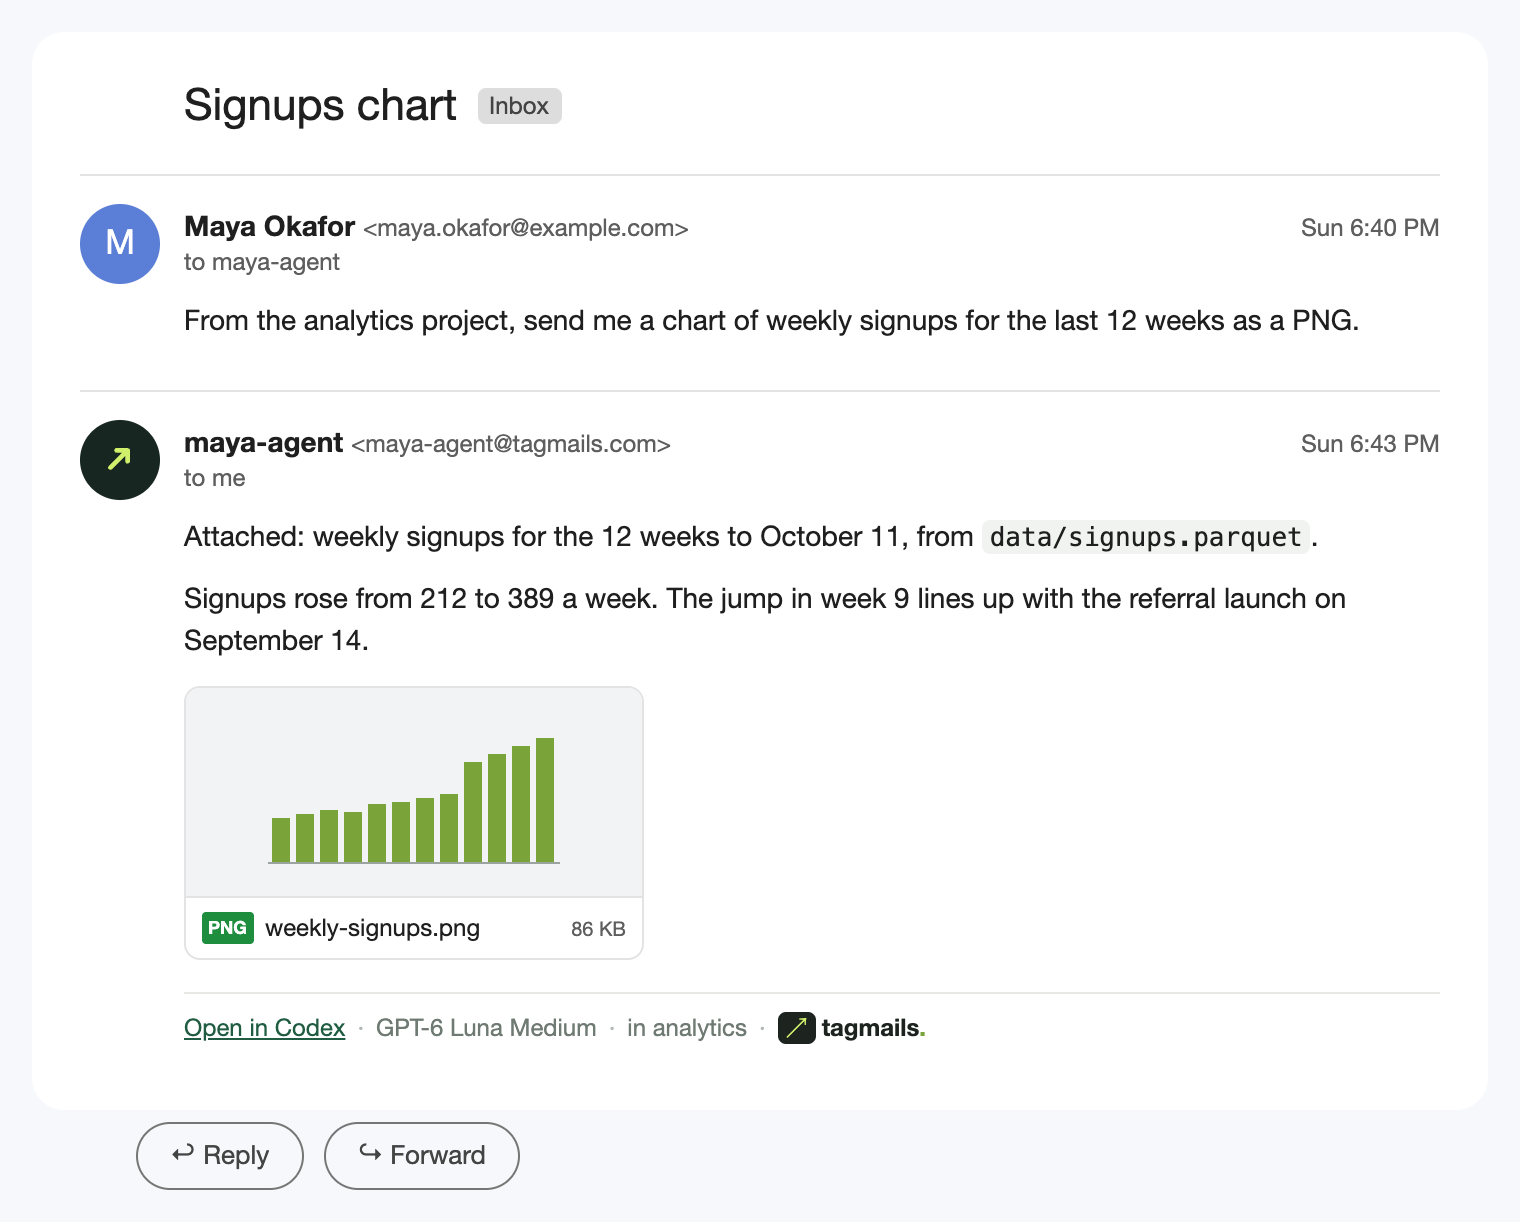
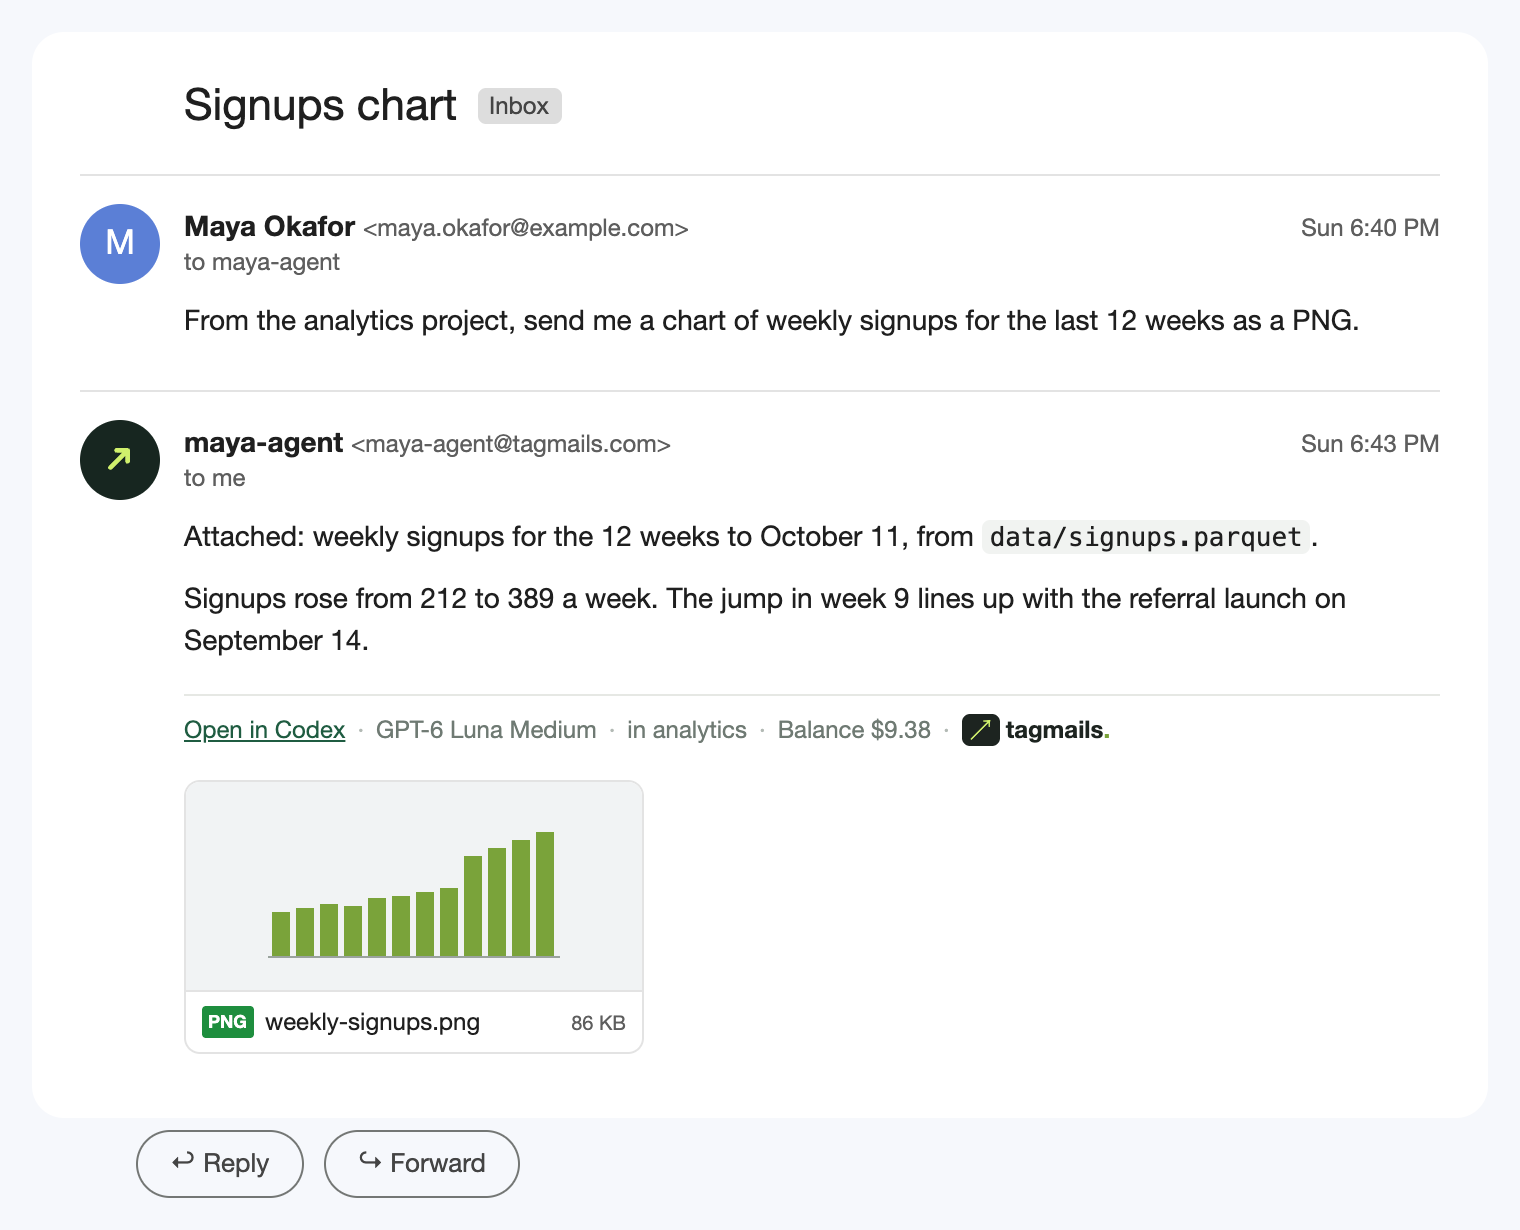
Docs: precise permissions, follow-ups, attachments and storage limits (review)
Codex Astra review fixes: --access is Codex-only and Claude auto runs
unsandboxed, so the README says so and gives a real read-only setup; CC'd
people can ask for edits; only corrections join a running task; attachments
are owner-only, five files, common types; thread subjects don't expire; replay
protection remembers recent jobs; the free-question cap ends on the run page;
self-hosting explains what STORAGE_KEY covers. Mock footers show the balance
and the attachment sits below the message. The link test requires tracked
targets.

diff --git a/assets/readme/threads.html b/assets/readme/threads.html
@@ -38,7 +38,7 @@
   .footer .sep { color:#b3bab5; padding:0 6px; }
   .brand b { color:#1d2420; }
   .brand i { font-style:normal; display:inline-block; background:#1d2420; color:#d0f06c; border-radius:4px; padding:0 4px; margin-right:3px; font-size:11px; line-height:16px; }
-  .attach { margin-top:12px; display:flex; gap:10px; }
+  .attach { margin-top:16px; display:flex; gap:10px; }
   .file { width:230px; border:1px solid var(--line); border-radius:8px; overflow:hidden; }
   .file .thumb { height:104px; background:#f1f3f4; display:grid; place-items:center; }
   .file .name { white-space:nowrap; font-size:12px; padding:6px 8px; border-top:1px solid var(--line); display:flex; gap:6px; align-items:center; }
@@ -117,7 +117,7 @@
           </ul>
           <p>Your 2:04 note reached me mid-run, so the limit is 10, not 5. Not committed yet.</p>
           <div class="footer">
-            <a href="#">Open in Claude</a><span class="sep">·</span>Claude Sonnet 5.5 High<span class="sep">·</span>in api-server<span class="sep">·</span><span class="brand"><i>↗</i><b>tagmails</b><b style="color:#7aa33a">.</b></span>
+            <a href="#">Open in Claude</a><span class="sep">·</span>Claude Sonnet 5.5 High<span class="sep">·</span>in api-server<span class="sep">·</span>Balance $9.39<span class="sep">·</span><span class="brand"><i>↗</i><b>tagmails</b><b style="color:#7aa33a">.</b></span>
           </div>
         </div>
       </div>
@@ -146,6 +146,9 @@
         <div class="body">
           <p>Attached: weekly signups for the 12 weeks to October 11, from <code>data/signups.parquet</code>.</p>
           <p>Signups rose from 212 to 389 a week. The jump in week 9 lines up with the referral launch on September 14.</p>
+          <div class="footer">
+            <a href="#">Open in Codex</a><span class="sep">·</span>GPT-6 Luna Medium<span class="sep">·</span>in analytics<span class="sep">·</span>Balance $9.38<span class="sep">·</span><span class="brand"><i>↗</i><b>tagmails</b><b style="color:#7aa33a">.</b></span>
+          </div>
           <div class="attach">
             <div class="file">
               <div class="thumb">
@@ -157,9 +160,6 @@
               </div>
               <div class="name"><span class="badge">PNG</span>weekly-signups.png<small>86 KB</small></div>
             </div>
-          </div>
-          <div class="footer">
-            <a href="#">Open in Codex</a><span class="sep">·</span>GPT-6 Luna Medium<span class="sep">·</span>in analytics<span class="sep">·</span><span class="brand"><i>↗</i><b>tagmails</b><b style="color:#7aa33a">.</b></span>
           </div>
         </div>
       </div>

diff --git a/README.md b/README.md
@@ -15,7 +15,7 @@ Ask about a project by name. The agent works in that folder on your computer and
 
 <img src="assets/readme/ask.png" alt="A Gmail thread: Maya asks why the login page in my-app flashes white, and her agent replies two minutes later with the cause and a proposed fix." width="760">
 
-Changed your mind while it's working? Just reply. The follow-up joins the run that's already going.
+Changed your mind while it's working? Just reply. A correction joins the run that's already going; a new request waits its turn.
 
 <img src="assets/readme/steer.png" alt="A Gmail thread: Maya asks for rate limiting on /login, then two minutes later replies to make it 10 per minute and cover /signup too. The agent's reply covers both." width="760">
 
@@ -37,7 +37,7 @@ Prefer to skip the website? Tell Codex or Claude Code: "Read https://tagmails.co
 <summary>Or set it up by hand</summary>
 
 ```sh
-brew install swaymun/tagmails/tagmails             # or: curl -fsSL https://tagmails.com/install.sh | sh  (needs Node.js 20.16+)
+brew install swaymun/tagmails/tagmails             # or: curl -fsSL https://tagmails.com/install.sh | sh  (needs Node.js 20.16+ or 22.3+)
 tagmails pair                                      # prints a link; open it and continue with Google
 tagmails start --projects                          # runs in the background, picks a project folder per email
 tagmails doctor                                    # checks the setup and prints a fix for each problem
@@ -53,7 +53,7 @@ tagmails doctor                                    # checks the setup and prints
 2. The Tagmails relay checks that it really came from you (Gmail's signature has to match), seals it so only your computer can read the stored copy, and hands it to your computer.
 3. Your computer picks the model and the project folder. Name a project ("in my-app …") or a path ("work in ~/code/api"); if nothing fits, the agent works in a fresh chat folder.
 4. Codex or Claude Code runs right there, with your files, your tools and your own plan. Your Codex or Claude sessions stay on your computer, so you can open the same session later (`tagmails open`).
-5. The answer comes back in the same Gmail thread, with any files you asked for (up to 3.5 MB in total). Reply to continue the same session.
+5. The answer comes back in the same Gmail thread. Files you asked for come attached (up to five, 3.5 MB in total, common document and image types) when the thread is just you and the agent. Reply to continue the same session.
 
 If your computer is asleep, the email waits until it's back. Up to three emails run at once, one per project folder.
 
@@ -61,7 +61,7 @@ More detail: [project routing](docs/project-routing.md).
 
 ## Pricing
 
-**$0.0025 per email you send** (a quarter of a cent; $1 covers 400 emails), from a prepaid balance. The agent runs on your own Codex or Claude plan, so Tagmails never charges for model usage. Follow-ups that join a running task are free. Details: [docs/pricing.md](docs/pricing.md).
+**$0.0025 per email you send** (a quarter of a cent; $1 covers 400 emails), from a prepaid balance. The agent runs on your own Codex or Claude plan, so Tagmails never charges for model usage. Corrections that join a running task are free. Details: [docs/pricing.md](docs/pricing.md).
 
 ## Privacy
 
@@ -74,22 +74,25 @@ Exactly what is and isn't visible: [docs/email-privacy.md](docs/email-privacy.md
 
 ## Permissions
 
-What the agent may do is set on your computer, never by email or the website. The defaults for your own emails:
+What the agent may do is set on your computer with `tagmails start`. Tagmails itself never changes these from an email or the website. The defaults for your own emails:
 
-- **Codex** can edit files in the project folder, read elsewhere, and use the network (so `git push` works). Anything beyond that goes to Codex's automatic reviewer, since nobody can click "approve" in an email.
-- **Claude Code** runs in its `auto` mode, like it does in your terminal.
+- **Codex** can edit files in the project folder, read anywhere on your computer, and use the network (so `git push` works). Anything beyond that goes to Codex's automatic reviewer, since nobody can click "approve" in an email.
+- **Claude Code** runs in its `auto` mode without its OS sandbox, much like it does in your terminal: it can run commands and change files, and Claude Code's own safety checks decide what's too risky.
 
-Change them with `tagmails start`:
+So treat the agent like someone with your terminal open. If that's too much, tighten it:
 
 | Option | What it does |
 | --- | --- |
-| `--access read` | Look but don't touch: no edits. |
-| `--access write` | The default described above. |
-| `--access full` | No sandbox. Only your own emails can use it. |
-| `--claude-permission manual\|accept-edits\|auto\|bypass` | Claude Code's mode (default `auto`; `bypass` is for your own emails only). |
+| `--access read` | Codex only: look, don't touch. |
+| `--access write` | Codex default, described above. |
+| `--access full` | Codex with no sandbox at all. Only your own emails get it. |
+| `--claude-permission manual` | Claude Code only: anything that would ask for approval is declined, so in practice it can read but not edit or run commands. |
+| `--claude-permission accept-edits\|auto\|bypass` | Claude Code may edit files / runs in `auto` (default) / skips all checks (your own emails only). |
 | `--projects` / `--workspace PATH` | Pick a recent project folder for each email (default), or always use one folder. |
 
-**Other people in the thread.** Anyone you put in To or Cc can reply in that thread and ask the agent things too. Their requests run with tighter limits: no network, no shell for Claude, none of your connectors or skills, and they never see your balance.
+For a read-only setup with both agents: `tagmails start --access read --claude-permission manual`.
+
+**Other people in the thread.** Anyone you put in To or Cc can reply in that thread and ask the agent things too. With the default settings they can ask for edits in the thread's project folder, so only copy people you'd let do that. Their requests run with tighter limits: no network, no shell for Claude, none of your connectors or skills, no attached files, and they never see your balance. Only your own follow-ups can join a run that's already going.
 
 ## Settings by email
 

diff --git a/docs/self-hosting.md b/docs/self-hosting.md
@@ -9,7 +9,7 @@ Setting this up with a coding agent? Give it [setup-for-agents.md](setup-for-age
 - Node.js 22+ and this repo: `npm ci` installs Wrangler.
 - A Cloudflare account, logged in with `npx wrangler login` (or `CLOUDFLARE_API_TOKEN` and `CLOUDFLARE_ACCOUNT_ID` exported).
 - A domain for agent addresses (`name@AGENT_DOMAIN`). Pick one mail path:
-  - **Cloudflare (default):** the domain is a zone in your Cloudflare account and nothing else receives mail there, because Email Routing takes over its MX records. Replies go out through Cloudflare Email Sending, which needs the Workers Paid plan. No third party sees message bodies.
+  - **Cloudflare (default):** the domain is a zone in your Cloudflare account and nothing else receives mail there, because Email Routing takes over its MX records. Replies go out through Cloudflare Email Sending, which needs the Workers Paid plan. Mail passes only through Cloudflare.
   - **Resend:** the domain is verified in Resend for receiving and sending. Works on the Workers free plan; Resend keeps message bodies.
 - Your personal `@gmail.com` address. Sign-in accepts personal Gmail accounts only.
 - A Google Cloud OAuth client of type **Web application**. You can create it after the first deploy, once you know the Worker URL. If its consent screen is in testing mode, add your Gmail as a test user. Sign-in asks for identity only, no Gmail scopes.
@@ -74,7 +74,7 @@ Secrets live in `.env.selfhost`; the script uploads them on every deploy. You ca
 | `PUBLIC_ORIGIN` | yes | The Worker origin, no path. Used for run links in replies. |
 | `PILOT_OWNER_EMAIL` | yes | Your Gmail. Anyone else is refused at sign-in. |
 | `RESEND_API_KEY`, `RESEND_WEBHOOK_SECRET` | Resend path only | API key with sending and receiving access; the webhook's signing secret. |
-| `STORAGE_KEY` | recommended (the script sets it) | 32 random bytes, base64. Seals stored mail, results and files with AES-256-GCM. Set it before the first mail and never change it. |
+| `STORAGE_KEY` | recommended (the script sets it) | 32 random bytes, base64. Encrypts (AES-256-GCM) what the relay keeps under its own key: its own replies, held requests and your computer's project list. Mail and results for paired computers are sealed to the computer's key either way. Set it before the first mail and never change it. |
 
 Variables (put them under `vars` in `wrangler.selfhost.jsonc`): `CLAUDE_ROUTE_ENABLED=true` (the script sets it; without it Claude model requests get a clarification), `STATUS_REACTIONS_ENABLED=true` (Gmail status reactions), `ADDRESS_DOMAIN` (lets you choose `name@domain`), `PILOT_CODEX_MODEL`, `RESEND_TEST_FROM=onboarding@resend.dev` (replies before your Resend domain verifies). The rest (`SITE_*`, `GOOGLE_CLIENT_SECRET`, `BILLING_*`, `STRIPE_*`, `PUBLIC_SIGNUP_ENABLED`) are for the hosted service; leave them unset.
 
@@ -97,6 +97,6 @@ Bindings the config defines: D1 `DB`, R2 `MAIL`, Durable Object `DEVICE_PUSH` (w
 
 ## Before relying on it
 
-- This configuration is covered by local tests (duplicate mail, account isolation, participant authorization, run links without the website) but has not been run end to end in a fresh Cloudflare account. Start with your own Gmail and a disposable folder (`tagmails start --access read --workspace ~/tagmails-scratch`).
-- Without `STORAGE_KEY`, raw mail and results sit in R2 in plaintext. See [email-privacy.md](email-privacy.md) for what the relay keeps.
+- This configuration is covered by local tests (duplicate mail, account isolation, participant authorization, run links without the website) but has not been run end to end in a fresh Cloudflare account. Start with your own Gmail and a disposable folder (`tagmails start --access read --claude-permission manual --workspace ~/tagmails-scratch`).
+- Without `STORAGE_KEY`, the relay's own replies and your project list sit in R2 and D1 in plaintext; mail for paired computers is still sealed to their keys. See [email-privacy.md](email-privacy.md) for what the relay keeps.
 - Provider costs (Cloudflare, Resend, your Codex or Claude plan) are yours.

diff --git a/docs/email-privacy.md b/docs/email-privacy.md
@@ -9,13 +9,13 @@ At `tagmails pair` (or the first `tagmails start` of an older pairing) your comp
 The operator, or anyone holding the Cloudflare account, the Worker's `STORAGE_KEY` and the D1/R2 data, can't read:
 
 - The email: subject, body and attachments. The raw MIME is not stored; a parsed copy and one object per attachment are sealed instead.
-- Thread subjects.
+- Thread subjects. These are kept with the thread and don't expire.
 - The agent's result: answer, summary, details, checks, transcript and usage.
-- Files the agent attaches. They travel with the completion request and are never stored.
+- Files the agent attaches. They travel with the completion request and are not stored, except inside a sealed reply that is waiting its turn (next item).
 - A reply that has to wait for an earlier one in its thread. It is held sealed to the computer, which opens it and hands it back when its turn comes, only for the job it names and only within 7 days.
 - Earlier requests the relay answered itself, and follow-ups sent during a run, as they are passed to the computer.
 
-Each sealed request names its job, thread and Message-ID, and the SHA-256 of each attachment. The computer opens a claim only if the request is that job's own, and never reruns a job it already ran, so someone with write access to storage can't replay old sealed mail into a new job to read it back.
+Each sealed request names its job, thread and Message-ID, and the SHA-256 of each attachment. The computer opens a claim only if the request is that job's own, and refuses jobs it has recently run (it remembers the last 5,000), so someone with write access to storage can't easily replay old sealed mail into a new job to read it back.
 
 When no paired computer has a key (none paired yet, or all revoked), an email is read in memory, answered with "no computer is connected, send it again", and not stored.
 

diff --git a/docs/pricing.md b/docs/pricing.md
@@ -7,7 +7,7 @@ The agent itself runs on your own computer with your own Codex or Claude plan, s
 ## What is charged
 
 - Each email that Tagmails accepts and answers is charged once, when the reply goes out. That includes failed runs, runs waiting for approval, and questions Tagmails sends back (which project, an unavailable model, a revoked computer).
-- A question back is still sent when your balance can't cover it, up to five a day, so you're never left without an answer.
+- A question back is still sent free when your balance can't cover it, up to five a day. After that it only appears on the run page on the website.
 - A run whose computer stops responding three times is failed with a reply, charged like any other.
 
 ## What is free
